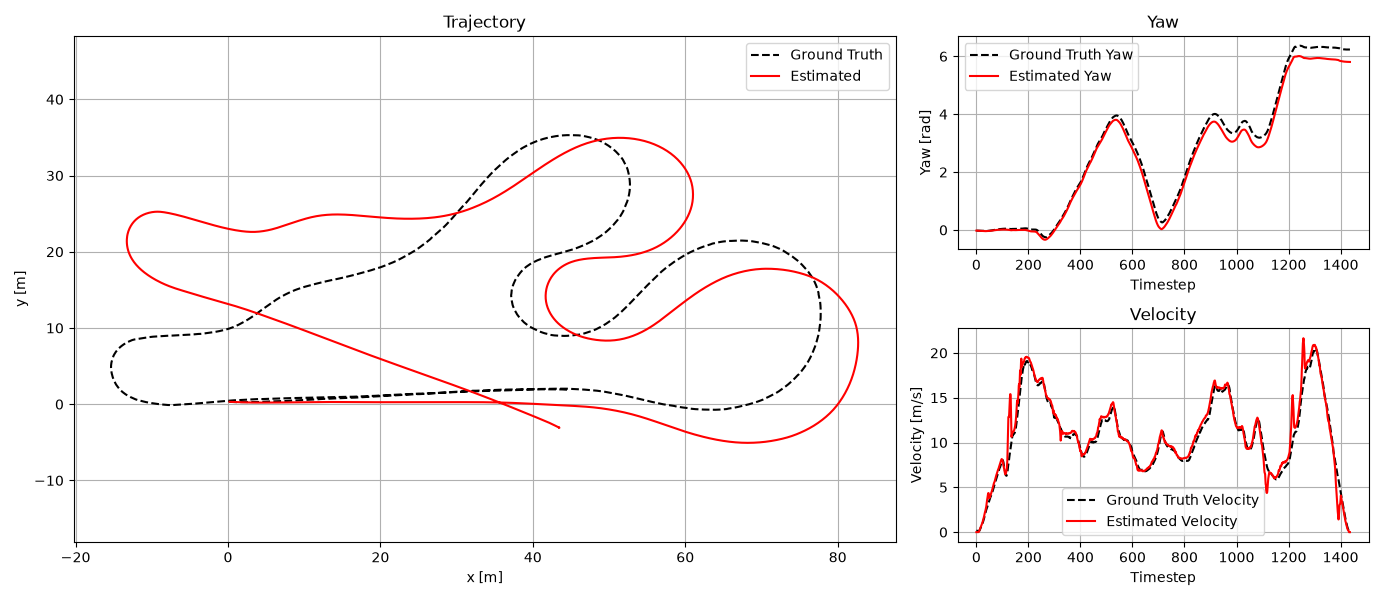
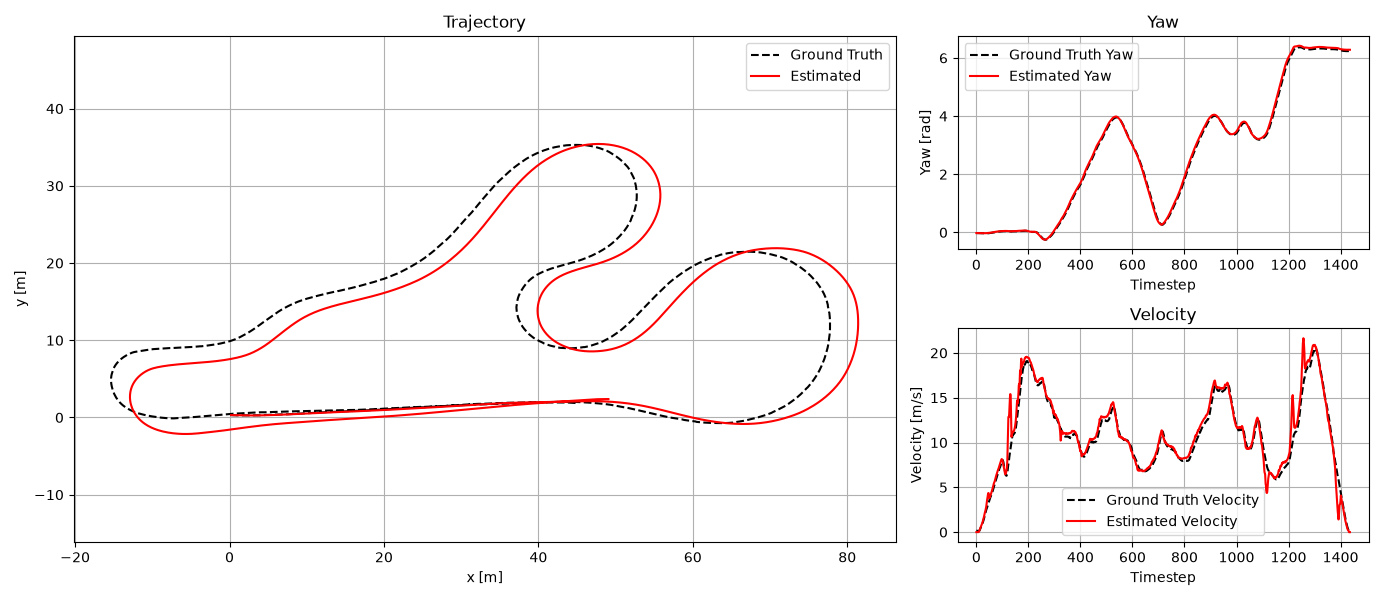
added gyro bias

diff --git a/state_estimator.py b/state_estimator.py
@@ -20,12 +20,17 @@ class StateEstimator:
     TRACK = 1.23  # m
     WHEELBASE = 1.53  # m
     CAR_MASS = 192  # kg
+    STANDSTILL_RPM = 5.0
 
     def __init__(self):
         self.prev_time = None
         self.x = 0.0
         self.y = 0.0
         self.yaw = 0.0
+        #gyro bias estimation
+        self.yaw_rate_count = 0.0
+        self.yaw_rate_sum = 0.0
+        self.yaw_rate_bias = 0.0
 
     def predict(self, meas: CarSignals) -> State:
         if self.prev_time is None:
@@ -40,7 +45,15 @@ class StateEstimator:
         vx = (v_rl + v_rr) / 2
 
         #heading
-        self.yaw = self.yaw + meas.yaw_rate * dt
+        if (abs(meas.wheel_speed_rl) < self.STANDSTILL_RPM 
+            and abs(meas.wheel_speed_rr) < self.STANDSTILL_RPM 
+            and abs(meas.wheel_speed_fl) < self.STANDSTILL_RPM 
+            and abs(meas.wheel_speed_fr) < self.STANDSTILL_RPM):
+                self.yaw_rate_sum += meas.yaw_rate
+                self.yaw_rate_count += 1
+                self.yaw_rate_bias = self.yaw_rate_sum / self.yaw_rate_count
+
+        self.yaw += (meas.yaw_rate - self.yaw_rate_bias) * dt
 
         #position
         self.x = self.x + vx * math.cos(self.yaw) * dt
